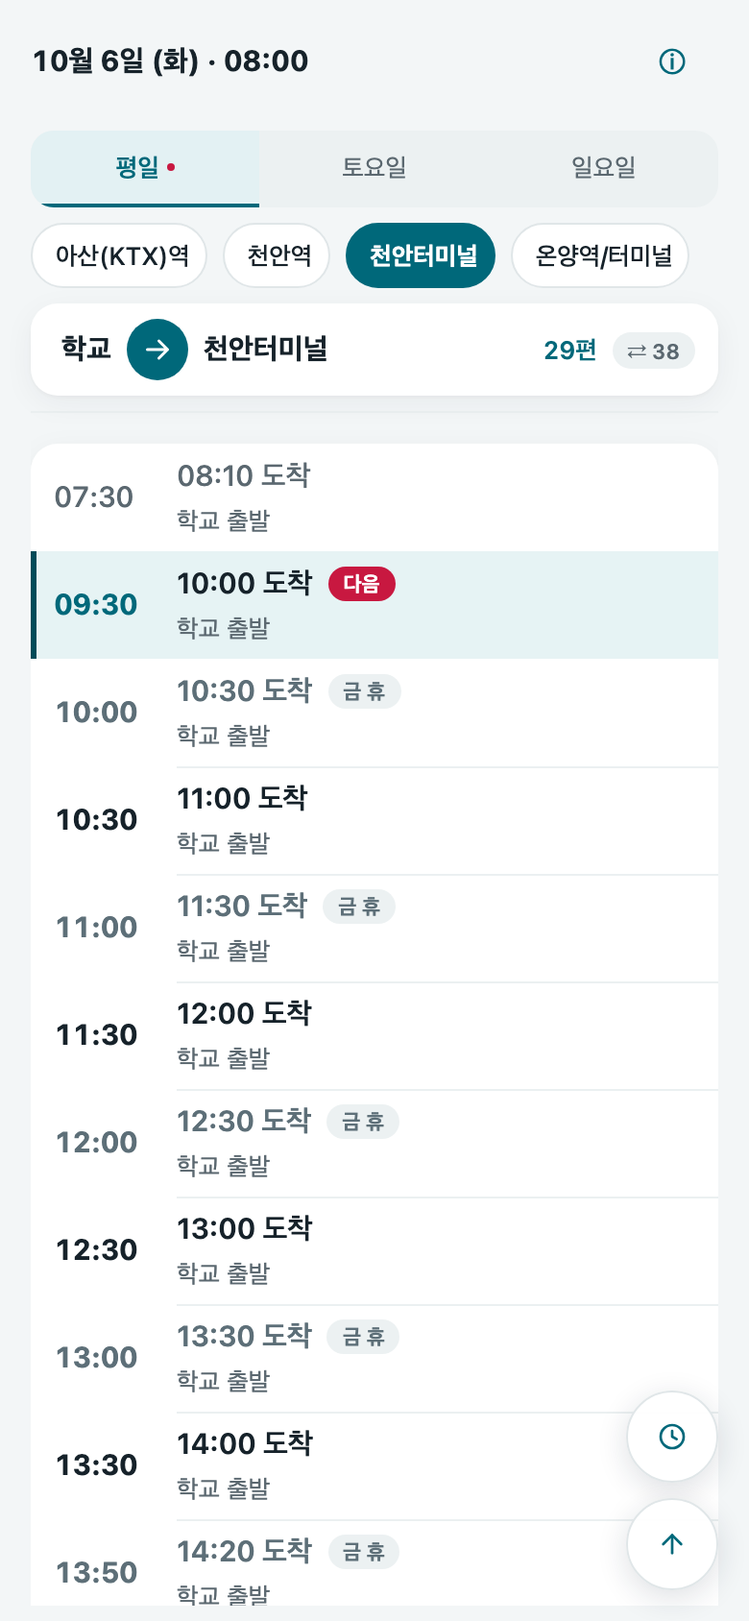
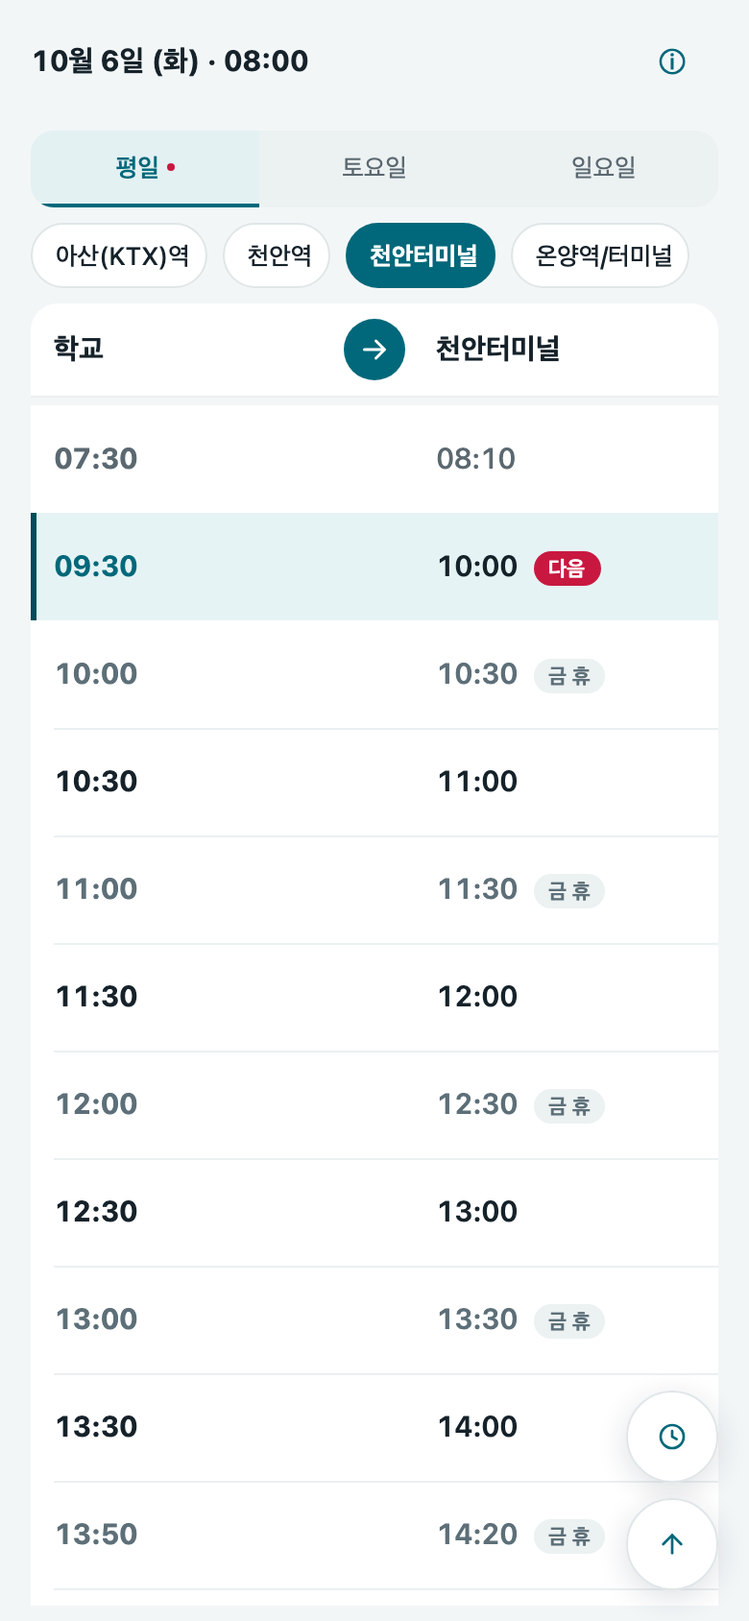
evidence: 표 형식 시간표 후 스모크 재실행 산출물

diff --git a/.session-notes/T7-a11y-report.md b/.session-notes/T7-a11y-report.md
@@ -1,13 +1,13 @@
 # T7·T11 감사 원출력 (a11y_smoke.mjs)
 
-- 일시: 2026-11-14T07:24:06.447Z
-- URL: http://127.0.0.1:55118/sunmoon-shuttle/?now=2026-10-05T14%3A40%3A00%2B09%3A00
+- 일시: 2026-11-14T07:31:20.472Z
+- URL: http://127.0.0.1:55639/sunmoon-shuttle/?now=2026-10-05T14%3A40%3A00%2B09%3A00
 - 뷰포트: 390×844 @2x (mobile, touch)
 - 스크린샷: .session-notes/T7-light.png · .session-notes/T7-dark.png · .session-notes/T7-focus-skip-link.png · .session-notes/T11-privacy.png
 
 ### ① 매니페스트 (Page.getAppManifest)
 
-- url: http://127.0.0.1:55118/sunmoon-shuttle/manifest.webmanifest
+- url: http://127.0.0.1:55639/sunmoon-shuttle/manifest.webmanifest
 - errors: []
 - name: 선문대 셔틀버스 시간표 · Sunmoon Shuttle Bus
 - short_name: 셔틀버스 Shuttle
@@ -25,7 +25,7 @@
 | ./icons/maskable-512.png | 512x512 | maskable | 200 | 512x512 | 4290B |
 
 
-### ③ light — 대비 실측(전체 35개 텍스트 노드)
+### ③ light — 대비 실측(전체 34개 텍스트 노드)
 
 | 요소 | 문구 | 전경 | 배경 | 크기 | 대비 | 기준 |
 |---|---|---|---|---|---|---|
@@ -40,35 +40,34 @@
 | span.shuttle-chip__label | 천안터미널 | rgb(22, 34, 42) | rgb(255, 255, 255) | 13px | 16.2:1 | ≥4.5 |
 | span.shuttle-chip__label | 온양역/터미널 | rgb(93, 111, 120) | rgb(255, 255, 255) | 13px | 5.24:1 | ≥4.5 |
 | span.shuttle-dirhead__place | 학교 | rgb(22, 34, 42) | rgb(255, 255, 255) | 15px bold | 16.2:1 | ≥4.5 |
-| span.shuttle-dirhead__place | 아산(KTX)역 | rgb(22, 34, 42) | rgb(255, 255, 255) | 15px bold | 16.2:1 | ≥4.5 |
-| span.shuttle-dirhead__num | 6편 | rgb(0, 104, 122) | rgb(255, 255, 255) | 13px | 6.44:1 | ≥4.5 |
-| span.shuttle-dirhead__swap | ⇄ 6 | rgb(91, 104, 112) | rgb(236, 241, 242) | 11px | 5.04:1 | ≥4.5 |
+| span.shuttle-dirhead__place.shuttle-dirhead__place--to | 아산(KTX)역 | rgb(22, 34, 42) | rgb(255, 255, 255) | 15px bold | 16.2:1 | ≥4.5 |
 | p.shuttle-strip__line | 일요일 시간표로 운행합니다 · 개천절대체휴일: 일요일  | rgb(27, 58, 107) | rgb(231, 238, 251) | 14px | 9.67:1 | ≥4.5 |
-| span.shuttle-departure__time | 09:00 | rgb(91, 104, 112) | rgb(255, 255, 255) | 15px | 5.74:1 | ≥4.5 |
-| span.shuttle-departure__route | 09:20 도착 | rgb(91, 104, 112) | rgb(255, 255, 255) | 15px | 5.74:1 | ≥4.5 |
-| span.shuttle-departure__dir | 학교 출발 · 약 20분 소요 | rgb(91, 104, 112) | rgb(255, 255, 255) | 13px | 5.74:1 | ≥4.5 |
-| span.shuttle-departure__time | 12:00 | rgb(91, 104, 112) | rgb(255, 255, 255) | 15px | 5.74:1 | ≥4.5 |
-| span.shuttle-departure__route | 12:20 도착 | rgb(91, 104, 112) | rgb(255, 255, 255) | 15px | 5.74:1 | ≥4.5 |
-| span.shuttle-departure__dir | 학교 출발 · 약 20분 소요 | rgb(91, 104, 112) | rgb(255, 255, 255) | 13px | 5.74:1 | ≥4.5 |
+| span.shuttle-departure__time | 09:00 | rgb(91, 104, 112) | rgb(255, 255, 255) | 15px bold | 5.74:1 | ≥4.5 |
+| span.shuttle-departure__mid | 약 20분 | rgb(91, 104, 112) | rgb(255, 255, 255) | 13px | 5.74:1 | ≥4.5 |
+| span.shuttle-departure__arrive | 09:20 | rgb(91, 104, 112) | rgb(255, 255, 255) | 15px | 5.74:1 | ≥4.5 |
+| span.shuttle-departure__time | 12:00 | rgb(91, 104, 112) | rgb(255, 255, 255) | 15px bold | 5.74:1 | ≥4.5 |
+| span.shuttle-departure__mid | 약 20분 | rgb(91, 104, 112) | rgb(255, 255, 255) | 13px | 5.74:1 | ≥4.5 |
+| span.shuttle-departure__arrive | 12:20 | rgb(91, 104, 112) | rgb(255, 255, 255) | 15px | 5.74:1 | ≥4.5 |
 | span.shuttle-departure__time | 16:10 | rgb(0, 104, 122) | rgb(230, 243, 244) | 15px bold | 5.67:1 | ≥4.5 |
-| span.shuttle-departure__route | 16:30 도착 | rgb(22, 34, 42) | rgb(230, 243, 244) | 15px | 14.26:1 | ≥4.5 |
-| span.shuttle-departure__dir | 학교 출발 · 약 20분 소요 | rgb(91, 104, 112) | rgb(230, 243, 244) | 13px | 5.05:1 | ≥4.5 |
+| span.shuttle-departure__mid | 약 20분 | rgb(91, 104, 112) | rgb(230, 243, 244) | 13px | 5.05:1 | ≥4.5 |
+| span.shuttle-departure__arrive | 16:30 | rgb(22, 34, 42) | rgb(230, 243, 244) | 15px | 14.26:1 | ≥4.5 |
+| span.shuttle-departure__next-badge | 다음 | rgb(255, 255, 255) | rgb(200, 24, 64) | 11px bold | 5.74:1 | ≥4.5 |
 | span.shuttle-departure__time | 18:20 | rgb(22, 34, 42) | rgb(255, 255, 255) | 15px bold | 16.2:1 | ≥4.5 |
-| span.shuttle-departure__route | 18:40 도착 | rgb(22, 34, 42) | rgb(255, 255, 255) | 15px | 16.2:1 | ≥4.5 |
-| span.shuttle-departure__dir | 학교 출발 · 약 20분 소요 | rgb(91, 104, 112) | rgb(255, 255, 255) | 13px | 5.74:1 | ≥4.5 |
+| span.shuttle-departure__mid | 약 20분 | rgb(91, 104, 112) | rgb(255, 255, 255) | 13px | 5.74:1 | ≥4.5 |
+| span.shuttle-departure__arrive | 18:40 | rgb(22, 34, 42) | rgb(255, 255, 255) | 15px | 16.2:1 | ≥4.5 |
 | span.shuttle-departure__time | 19:10 | rgb(22, 34, 42) | rgb(255, 255, 255) | 15px bold | 16.2:1 | ≥4.5 |
-| span.shuttle-departure__route | 19:30 도착 | rgb(22, 34, 42) | rgb(255, 255, 255) | 15px | 16.2:1 | ≥4.5 |
-| span.shuttle-departure__dir | 학교 출발 · 약 20분 소요 | rgb(91, 104, 112) | rgb(255, 255, 255) | 13px | 5.74:1 | ≥4.5 |
+| span.shuttle-departure__mid | 약 20분 | rgb(91, 104, 112) | rgb(255, 255, 255) | 13px | 5.74:1 | ≥4.5 |
+| span.shuttle-departure__arrive | 19:30 | rgb(22, 34, 42) | rgb(255, 255, 255) | 15px | 16.2:1 | ≥4.5 |
 | span.shuttle-departure__time | 20:00 | rgb(22, 34, 42) | rgb(255, 255, 255) | 15px bold | 16.2:1 | ≥4.5 |
-| span.shuttle-departure__route | 20:20 도착 | rgb(22, 34, 42) | rgb(255, 255, 255) | 15px | 16.2:1 | ≥4.5 |
-| span.shuttle-departure__dir | 학교 출발 · 약 20분 소요 | rgb(91, 104, 112) | rgb(255, 255, 255) | 13px | 5.74:1 | ≥4.5 |
+| span.shuttle-departure__mid | 약 20분 | rgb(91, 104, 112) | rgb(255, 255, 255) | 13px | 5.74:1 | ≥4.5 |
+| span.shuttle-departure__arrive | 20:20 | rgb(22, 34, 42) | rgb(255, 255, 255) | 15px | 16.2:1 | ≥4.5 |
 | p.shuttle-splash__title | 선문대 셔틀 | rgb(22, 34, 42) | rgb(243, 246, 247) | 28px bold (큰글씨) | 14.92:1 | ≥3 |
 | p.shuttle-splash__message | 시간표 불러오는 중 | rgb(91, 104, 112) | rgb(243, 246, 247) | 14px | 5.28:1 | ≥4.5 |
 
 미달: 0건
 
 
-#### light — 터치 타깃 실측(19개)
+#### light — 터치 타깃 실측(18개)
 
 | 요소 | 문구 | 폭 | 높이 | 최소(문서) |
 |---|---|---|---|---|
@@ -81,20 +80,19 @@
 | button.shuttle-chip | 천안역 | 56px | 44px | 48×44 |
 | button.shuttle-chip | 천안터미널 | 78px | 44px | 48×44 |
 | button.shuttle-chip.shuttle-chip--empty | 온양역/터미널 | 93px | 44px | 48×44 |
-| button.shuttle-dirhead | 학교아산(KTX)역6편⇄ 6 | 358px | 48px | 48×48 |
-| section.shuttle-tabpanel.shuttle-tabpanel--enter | 시간표09:0009:20 도착학교 출발 · 약 20 | 358px | 464px | 48×48 |
+| button.shuttle-dirhead__arrow |  | 48px | 48px | 48×48 |
+| section.shuttle-tabpanel.shuttle-tabpanel--enter | 시간표09:00약 20분09:20지난 편12:00약 | 358px | 464px | 48×48 |
 | button.shuttle-icon-button |  | 48px | 48px | 48×48 |
 | button.shuttle-icon-button.shuttle-sheet__close |  | 48px | 48px | 48×48 |
 | summary | 정차 시간 안내 | 334px | 48px | 48×48 |
 | summary | 시내버스 참고 | 334px | 48px | 48×48 |
 | a | 학교 안내 페이지 열기 | 112px | 48px | 48×48 |
 | a | 개인정보처리방침 | 90px | 48px | 48×48 |
-| button.shuttle-dirhead | 학교아산(KTX)역4편⇄ 4 | 358px | 48px | 48×48 |
-| section.shuttle-tabpanel.shuttle-tabpanel--enter | 시간표08:0008:20 도착학교 출발 · 약 20 | 358px | 352px | 48×48 |
+| section.shuttle-tabpanel.shuttle-tabpanel--enter | 시간표08:00약 20분08:2012:00약 20분 | 358px | 352px | 48×48 |
 
 규격 미달: 0건
 
-레이아웃: 요소 256개 · body bg=rgb(243, 246, 247) · body color=rgb(22, 34, 42) · scrollWidth=390 ≤ clientWidth=390
+레이아웃: 요소 254개 · body bg=rgb(243, 246, 247) · body color=rgb(22, 34, 42) · scrollWidth=390 ≤ clientWidth=390
 
 
 #### 키보드 포커스(실측)
@@ -105,7 +103,7 @@
 ### 설치 안내 삭제 + 본문 텍스트 노드 전수 목록(T31 · docs/07 §13)
 - 설치 안내 노드: false · 금지 문자열 실측(값·상태·라벨 구역): 0건
 - §9-4 예외 구역(상태 1줄): 합니다
-- 본문 텍스트 노드 33개 · 허용 구역 밖 0건
+- 본문 텍스트 노드 32개 · 허용 구역 밖 0건
 - 전수 목록(문자열·위치·크기): .session-notes/T31-본문텍스트노드.md
 
 | 요소 | 문자열 | 위치(x,y) | 크기(w×h) | 폰트(px) | 구분 |
@@ -120,32 +118,31 @@
 | span.shuttle-chip__label | 천안역 | 131,123 | 34×20 | 13 | 값·상태·라벨 |
 | span.shuttle-chip__label | 천안터미널 | 195,123 | 56×20 | 13 | 값·상태·라벨 |
 | span.shuttle-chip__label | 온양역/터미널 | 281,123 | 71×20 | 13 | 값·상태·라벨 |
-| span.shuttle-dirhead__place | 학교 | 32,170 | 26×23 | 15 | 값·상태·라벨 |
-| span.shuttle-dirhead__place | 아산(KTX)역 | 106,170 | 82×23 | 15 | 값·상태·라벨 |
-| span.shuttle-dirhead__num | 6편 | 298,172 | 20×20 | 13 | 값·상태·라벨 |
-| span.shuttle-dirhead__swap | ⇄ 6 | 326,173 | 36×20 | 11 | 값·상태·라벨 |
-| p.shuttle-strip__line | 일요일 시간표로 운행합니다 · 개천절대체휴일: 일요일 시간표로 운행 | 31,223 | 331×43 | 14 | §9-4 예외(상태 1줄) |
-| span.shuttle-departure__time | 09:00 | 28,301 | 52×20 | 15 | 값·상태·라벨 |
-| span.shuttle-departure__route | 09:20 도착 | 92,290 | 72×20 | 15 | 값·상태·라벨 |
-| span.shuttle-departure__dir | 학교 출발 · 약 20분 소요 | 92,314 | 270×17 | 13 | 값·상태·라벨 |
-| span.shuttle-departure__time | 12:00 | 28,357 | 52×20 | 15 | 값·상태·라벨 |
-| span.shuttle-departure__route | 12:20 도착 | 92,346 | 69×20 | 15 | 값·상태·라벨 |
-| span.shuttle-departure__dir | 학교 출발 · 약 20분 소요 | 92,370 | 270×17 | 13 | 값·상태·라벨 |
-| span.shuttle-departure__time | 16:10 | 28,413 | 52×20 | 15 | 값·상태·라벨 |
-| span.shuttle-departure__route | 16:30 도착 | 92,402 | 114×20 | 15 | 값·상태·라벨 |
-| span.shuttle-departure__dir | 학교 출발 · 약 20분 소요 | 92,426 | 270×17 | 13 | 값·상태·라벨 |
-| span.shuttle-departure__time | 18:20 | 28,469 | 52×20 | 15 | 값·상태·라벨 |
-| span.shuttle-departure__route | 18:40 도착 | 92,458 | 71×20 | 15 | 값·상태·라벨 |
-| span.shuttle-departure__dir | 학교 출발 · 약 20분 소요 | 92,482 | 270×17 | 13 | 값·상태·라벨 |
-| span.shuttle-departure__time | 19:10 | 28,525 | 52×20 | 15 | 값·상태·라벨 |
-| span.shuttle-departure__route | 19:30 도착 | 92,514 | 71×20 | 15 | 값·상태·라벨 |
-| span.shuttle-departure__dir | 학교 출발 · 약 20분 소요 | 92,538 | 270×17 | 13 | 값·상태·라벨 |
-| span.shuttle-departure__time | 20:00 | 28,581 | 52×20 | 15 | 값·상태·라벨 |
-| span.shuttle-departure__route | 20:20 도착 | 92,570 | 72×20 | 15 | 값·상태·라벨 |
-| span.shuttle-departure__dir | 학교 출발 · 약 20분 소요 | 92,594 | 270×17 | 13 | 값·상태·라벨 |
+| span.shuttle-dirhead__place | 학교 | 28,170 | 135×23 | 15 | 값·상태·라벨 |
+| span.shuttle-dirhead__place.shuttle-dirhead__place--to | 아산(KTX)역 | 227,170 | 135×23 | 15 | 값·상태·라벨 |
+| p.shuttle-strip__line | 일요일 시간표로 운행합니다 · 개천절대체휴일: 일요일 시간표로 운행 | 31,215 | 331×43 | 14 | §9-4 예외(상태 1줄) |
+| span.shuttle-departure__time | 09:00 | 28,281 | 44×20 | 15 | 값·상태·라벨 |
+| span.shuttle-departure__mid | 약 20분 | 174,280 | 42×20 | 13 | 값·상태·라벨 |
+| span.shuttle-departure__arrive | 09:20 | 227,281 | 41×20 | 15 | 값·상태·라벨 |
+| span.shuttle-departure__time | 12:00 | 28,337 | 44×20 | 15 | 값·상태·라벨 |
+| span.shuttle-departure__mid | 약 20분 | 174,336 | 42×20 | 13 | 값·상태·라벨 |
+| span.shuttle-departure__arrive | 12:20 | 227,337 | 41×20 | 15 | 값·상태·라벨 |
+| span.shuttle-departure__time | 16:10 | 28,393 | 44×20 | 15 | 값·상태·라벨 |
+| span.shuttle-departure__mid | 약 20분 | 174,392 | 42×20 | 13 | 값·상태·라벨 |
+| span.shuttle-departure__arrive | 16:30 | 227,392 | 43×20 | 15 | 값·상태·라벨 |
+| span.shuttle-departure__next-badge | 다음 | 278,394 | 35×19 | 11 | 값·상태·라벨 |
+| span.shuttle-departure__time | 18:20 | 28,449 | 44×20 | 15 | 값·상태·라벨 |
+| span.shuttle-departure__mid | 약 20분 | 174,448 | 42×20 | 13 | 값·상태·라벨 |
+| span.shuttle-departure__arrive | 18:40 | 227,449 | 43×20 | 15 | 값·상태·라벨 |
+| span.shuttle-departure__time | 19:10 | 28,505 | 44×20 | 15 | 값·상태·라벨 |
+| span.shuttle-departure__mid | 약 20분 | 174,504 | 42×20 | 13 | 값·상태·라벨 |
+| span.shuttle-departure__arrive | 19:30 | 227,505 | 43×20 | 15 | 값·상태·라벨 |
+| span.shuttle-departure__time | 20:00 | 28,561 | 44×20 | 15 | 값·상태·라벨 |
+| span.shuttle-departure__mid | 약 20분 | 174,560 | 42×20 | 13 | 값·상태·라벨 |
+| span.shuttle-departure__arrive | 20:20 | 227,561 | 43×20 | 15 | 값·상태·라벨 |
 
 
-### ④ dark — 대비 실측(전체 35개 텍스트 노드)
+### ④ dark — 대비 실측(전체 34개 텍스트 노드)
 
 | 요소 | 문구 | 전경 | 배경 | 크기 | 대비 | 기준 |
 |---|---|---|---|---|---|---|
@@ -160,35 +157,34 @@
 | span.shuttle-chip__label | 천안터미널 | rgb(238, 242, 246) | rgb(27, 33, 41) | 13px | 14.4:1 | ≥4.5 |
 | span.shuttle-chip__label | 온양역/터미널 | rgb(154, 166, 178) | rgb(27, 33, 41) | 13px | 6.54:1 | ≥4.5 |
 | span.shuttle-dirhead__place | 학교 | rgb(238, 242, 246) | rgb(27, 33, 41) | 15px bold | 14.4:1 | ≥4.5 |
-| span.shuttle-dirhead__place | 아산(KTX)역 | rgb(238, 242, 246) | rgb(27, 33, 41) | 15px bold | 14.4:1 | ≥4.5 |
-| span.shuttle-dirhead__num | 6편 | rgb(95, 195, 207) | rgb(27, 33, 41) | 13px | 7.86:1 | ≥4.5 |
-| span.shuttle-dirhead__swap | ⇄ 6 | rgb(185, 195, 206) | rgb(34, 42, 51) | 11px | 8.13:1 | ≥4.5 |
+| span.shuttle-dirhead__place.shuttle-dirhead__place--to | 아산(KTX)역 | rgb(238, 242, 246) | rgb(27, 33, 41) | 15px bold | 14.4:1 | ≥4.5 |
 | p.shuttle-strip__line | 일요일 시간표로 운행합니다 · 개천절대체휴일: 일요일  | rgb(189, 211, 245) | rgb(27, 39, 64) | 14px | 9.78:1 | ≥4.5 |
-| span.shuttle-departure__time | 09:00 | rgb(185, 195, 206) | rgb(27, 33, 41) | 15px | 9.07:1 | ≥4.5 |
-| span.shuttle-departure__route | 09:20 도착 | rgb(185, 195, 206) | rgb(27, 33, 41) | 15px | 9.07:1 | ≥4.5 |
-| span.shuttle-departure__dir | 학교 출발 · 약 20분 소요 | rgb(185, 195, 206) | rgb(27, 33, 41) | 13px | 9.07:1 | ≥4.5 |
-| span.shuttle-departure__time | 12:00 | rgb(185, 195, 206) | rgb(27, 33, 41) | 15px | 9.07:1 | ≥4.5 |
-| span.shuttle-departure__route | 12:20 도착 | rgb(185, 195, 206) | rgb(27, 33, 41) | 15px | 9.07:1 | ≥4.5 |
-| span.shuttle-departure__dir | 학교 출발 · 약 20분 소요 | rgb(185, 195, 206) | rgb(27, 33, 41) | 13px | 9.07:1 | ≥4.5 |
+| span.shuttle-departure__time | 09:00 | rgb(185, 195, 206) | rgb(27, 33, 41) | 15px bold | 9.07:1 | ≥4.5 |
+| span.shuttle-departure__mid | 약 20분 | rgb(185, 195, 206) | rgb(27, 33, 41) | 13px | 9.07:1 | ≥4.5 |
+| span.shuttle-departure__arrive | 09:20 | rgb(185, 195, 206) | rgb(27, 33, 41) | 15px | 9.07:1 | ≥4.5 |
+| span.shuttle-departure__time | 12:00 | rgb(185, 195, 206) | rgb(27, 33, 41) | 15px bold | 9.07:1 | ≥4.5 |
+| span.shuttle-departure__mid | 약 20분 | rgb(185, 195, 206) | rgb(27, 33, 41) | 13px | 9.07:1 | ≥4.5 |
+| span.shuttle-departure__arrive | 12:20 | rgb(185, 195, 206) | rgb(27, 33, 41) | 15px | 9.07:1 | ≥4.5 |
 | span.shuttle-departure__time | 16:10 | rgb(95, 195, 207) | rgb(29, 50, 54) | 15px bold | 6.53:1 | ≥4.5 |
-| span.shuttle-departure__route | 16:30 도착 | rgb(238, 242, 246) | rgb(29, 50, 54) | 15px | 11.95:1 | ≥4.5 |
-| span.shuttle-departure__dir | 학교 출발 · 약 20분 소요 | rgb(185, 195, 206) | rgb(29, 50, 54) | 13px | 7.53:1 | ≥4.5 |
+| span.shuttle-departure__mid | 약 20분 | rgb(185, 195, 206) | rgb(29, 50, 54) | 13px | 7.53:1 | ≥4.5 |
+| span.shuttle-departure__arrive | 16:30 | rgb(238, 242, 246) | rgb(29, 50, 54) | 15px | 11.95:1 | ≥4.5 |
+| span.shuttle-departure__next-badge | 다음 | rgb(16, 22, 29) | rgb(242, 122, 144) | 11px bold | 6.9:1 | ≥4.5 |
 | span.shuttle-departure__time | 18:20 | rgb(238, 242, 246) | rgb(27, 33, 41) | 15px bold | 14.4:1 | ≥4.5 |
-| span.shuttle-departure__route | 18:40 도착 | rgb(238, 242, 246) | rgb(27, 33, 41) | 15px | 14.4:1 | ≥4.5 |
-| span.shuttle-departure__dir | 학교 출발 · 약 20분 소요 | rgb(185, 195, 206) | rgb(27, 33, 41) | 13px | 9.07:1 | ≥4.5 |
+| span.shuttle-departure__mid | 약 20분 | rgb(185, 195, 206) | rgb(27, 33, 41) | 13px | 9.07:1 | ≥4.5 |
+| span.shuttle-departure__arrive | 18:40 | rgb(238, 242, 246) | rgb(27, 33, 41) | 15px | 14.4:1 | ≥4.5 |
 | span.shuttle-departure__time | 19:10 | rgb(238, 242, 246) | rgb(27, 33, 41) | 15px bold | 14.4:1 | ≥4.5 |
-| span.shuttle-departure__route | 19:30 도착 | rgb(238, 242, 246) | rgb(27, 33, 41) | 15px | 14.4:1 | ≥4.5 |
-| span.shuttle-departure__dir | 학교 출발 · 약 20분 소요 | rgb(185, 195, 206) | rgb(27, 33, 41) | 13px | 9.07:1 | ≥4.5 |
+| span.shuttle-departure__mid | 약 20분 | rgb(185, 195, 206) | rgb(27, 33, 41) | 13px | 9.07:1 | ≥4.5 |
+| span.shuttle-departure__arrive | 19:30 | rgb(238, 242, 246) | rgb(27, 33, 41) | 15px | 14.4:1 | ≥4.5 |
 | span.shuttle-departure__time | 20:00 | rgb(238, 242, 246) | rgb(27, 33, 41) | 15px bold | 14.4:1 | ≥4.5 |
-| span.shuttle-departure__route | 20:20 도착 | rgb(238, 242, 246) | rgb(27, 33, 41) | 15px | 14.4:1 | ≥4.5 |
-| span.shuttle-departure__dir | 학교 출발 · 약 20분 소요 | rgb(185, 195, 206) | rgb(27, 33, 41) | 13px | 9.07:1 | ≥4.5 |
+| span.shuttle-departure__mid | 약 20분 | rgb(185, 195, 206) | rgb(27, 33, 41) | 13px | 9.07:1 | ≥4.5 |
+| span.shuttle-departure__arrive | 20:20 | rgb(238, 242, 246) | rgb(27, 33, 41) | 15px | 14.4:1 | ≥4.5 |
 | p.shuttle-splash__title | 선문대 셔틀 | rgb(238, 242, 246) | rgb(18, 22, 27) | 28px bold (큰글씨) | 16.14:1 | ≥3 |
 | p.shuttle-splash__message | 시간표 불러오는 중 | rgb(185, 195, 206) | rgb(18, 22, 27) | 14px | 10.17:1 | ≥4.5 |
 
 미달: 0건
 
 
-#### dark — 터치 타깃 실측(19개)
+#### dark — 터치 타깃 실측(18개)
 
 | 요소 | 문구 | 폭 | 높이 | 최소(문서) |
 |---|---|---|---|---|
@@ -201,20 +197,19 @@
 | button.shuttle-chip | 천안역 | 56px | 44px | 48×44 |
 | button.shuttle-chip | 천안터미널 | 78px | 44px | 48×44 |
 | button.shuttle-chip.shuttle-chip--empty | 온양역/터미널 | 93px | 44px | 48×44 |
-| button.shuttle-dirhead | 학교아산(KTX)역6편⇄ 6 | 358px | 48px | 48×48 |
-| section.shuttle-tabpanel.shuttle-tabpanel--enter | 시간표09:0009:20 도착학교 출발 · 약 20 | 358px | 464px | 48×48 |
+| button.shuttle-dirhead__arrow |  | 48px | 48px | 48×48 |
+| section.shuttle-tabpanel.shuttle-tabpanel--enter | 시간표09:00약 20분09:20지난 편12:00약 | 358px | 464px | 48×48 |
 | button.shuttle-icon-button |  | 48px | 48px | 48×48 |
 | button.shuttle-icon-button.shuttle-sheet__close |  | 48px | 48px | 48×48 |
 | summary | 정차 시간 안내 | 334px | 48px | 48×48 |
 | summary | 시내버스 참고 | 334px | 48px | 48×48 |
 | a | 학교 안내 페이지 열기 | 112px | 48px | 48×48 |
 | a | 개인정보처리방침 | 90px | 48px | 48×48 |
-| button.shuttle-dirhead | 학교아산(KTX)역4편⇄ 4 | 358px | 48px | 48×48 |
-| section.shuttle-tabpanel.shuttle-tabpanel--enter | 시간표08:0008:20 도착학교 출발 · 약 20 | 358px | 352px | 48×48 |
+| section.shuttle-tabpanel.shuttle-tabpanel--enter | 시간표08:00약 20분08:2012:00약 20분 | 358px | 352px | 48×48 |
 
 규격 미달: 0건
 
-레이아웃: 요소 256개 · body bg=rgb(18, 22, 27) · body color=rgb(238, 242, 246) · scrollWidth=390 ≤ clientWidth=390
+레이아웃: 요소 254개 · body bg=rgb(18, 22, 27) · body color=rgb(238, 242, 246) · scrollWidth=390 ≤ clientWidth=390
 
 
 #### 안전영역 토큰 주입 실측
@@ -228,10 +223,10 @@
 
 
 ### ⑧ 개인정보처리방침(privacy.html · T11)
-- URL: http://127.0.0.1:55118/sunmoon-shuttle/privacy.html (HTTP 200, 6238B)
+- URL: http://127.0.0.1:55639/sunmoon-shuttle/privacy.html (HTTP 200, 6238B)
 - h1: 개인정보처리방침 · 필수 문구 누락: 0건
 - body bg=rgb(243, 246, 247) · color=rgb(22, 34, 42) · 가로 스크롤 없음(scrollWidth=390)
-- 푸터 링크: {"href":"./privacy.html","text":"개인정보처리방침","resolved":"http://127.0.0.1:55118/sunmoon-shuttle/privacy.html"}
+- 푸터 링크: {"href":"./privacy.html","text":"개인정보처리방침","resolved":"http://127.0.0.1:55639/sunmoon-shuttle/privacy.html"}
 - 스크린샷: /Users/leeheesun/Documents/GitHub/sunmoon-shuttle/.session-notes/T11-privacy.png
 
 | 요소 | 문구 | 전경 | 배경 | 크기 | 대비 | 기준 |

diff --git a/.session-notes/T31-본문텍스트노드.md b/.session-notes/T31-본문텍스트노드.md
@@ -1,9 +1,9 @@
 # T31 본문 텍스트 노드 전수 목록 (docs/07 §13-3 · AC-U13-2)
 
-- 일시: 2026-11-14T07:24:03.729Z
-- URL: http://127.0.0.1:55118/sunmoon-shuttle/?now=2026-10-05T14%3A40%3A00%2B09%3A00
+- 일시: 2026-11-14T07:31:17.810Z
+- URL: http://127.0.0.1:55639/sunmoon-shuttle/?now=2026-10-05T14%3A40%3A00%2B09%3A00
 - 뷰포트: 390×844 @2x (mobile, touch) · 라이트 모드 · 미설치 상태(설치 안내 없음)
-- 노드 수: 33개 · 금지 문자열 실측: 0건
+- 노드 수: 32개 · 금지 문자열 실측: 0건
 - §9-4 예외 구역(상단 상태 1줄·오류/오프라인 배너)에서 나온 금지 문자열: 합니다 (문서가 남긴 고정 문구 — v1·render·offline 스모크가 그대로 검사한다)
 - 허용 구역 밖(설명문 의심): 0건
 
@@ -19,29 +19,28 @@
 | 8 | span.shuttle-chip__label | 천안역 | 131,123 | 34×20 | 13 | 값·상태·라벨 |
 | 9 | span.shuttle-chip__label | 천안터미널 | 195,123 | 56×20 | 13 | 값·상태·라벨 |
 | 10 | span.shuttle-chip__label | 온양역/터미널 | 281,123 | 71×20 | 13 | 값·상태·라벨 |
-| 11 | span.shuttle-dirhead__place | 학교 | 32,170 | 26×23 | 15 | 값·상태·라벨 |
-| 12 | span.shuttle-dirhead__place | 아산(KTX)역 | 106,170 | 82×23 | 15 | 값·상태·라벨 |
-| 13 | span.shuttle-dirhead__num | 6편 | 298,172 | 20×20 | 13 | 값·상태·라벨 |
-| 14 | span.shuttle-dirhead__swap | ⇄ 6 | 326,173 | 36×20 | 11 | 값·상태·라벨 |
-| 15 | p.shuttle-strip__line | 일요일 시간표로 운행합니다 · 개천절대체휴일: 일요일 시간표로 운행 | 31,223 | 331×43 | 14 | §9-4 예외(상태 1줄) |
-| 16 | span.shuttle-departure__time | 09:00 | 28,301 | 52×20 | 15 | 값·상태·라벨 |
-| 17 | span.shuttle-departure__route | 09:20 도착 | 92,290 | 72×20 | 15 | 값·상태·라벨 |
-| 18 | span.shuttle-departure__dir | 학교 출발 · 약 20분 소요 | 92,314 | 270×17 | 13 | 값·상태·라벨 |
-| 19 | span.shuttle-departure__time | 12:00 | 28,357 | 52×20 | 15 | 값·상태·라벨 |
-| 20 | span.shuttle-departure__route | 12:20 도착 | 92,346 | 69×20 | 15 | 값·상태·라벨 |
-| 21 | span.shuttle-departure__dir | 학교 출발 · 약 20분 소요 | 92,370 | 270×17 | 13 | 값·상태·라벨 |
-| 22 | span.shuttle-departure__time | 16:10 | 28,413 | 52×20 | 15 | 값·상태·라벨 |
-| 23 | span.shuttle-departure__route | 16:30 도착 | 92,402 | 114×20 | 15 | 값·상태·라벨 |
-| 24 | span.shuttle-departure__dir | 학교 출발 · 약 20분 소요 | 92,426 | 270×17 | 13 | 값·상태·라벨 |
-| 25 | span.shuttle-departure__time | 18:20 | 28,469 | 52×20 | 15 | 값·상태·라벨 |
-| 26 | span.shuttle-departure__route | 18:40 도착 | 92,458 | 71×20 | 15 | 값·상태·라벨 |
-| 27 | span.shuttle-departure__dir | 학교 출발 · 약 20분 소요 | 92,482 | 270×17 | 13 | 값·상태·라벨 |
-| 28 | span.shuttle-departure__time | 19:10 | 28,525 | 52×20 | 15 | 값·상태·라벨 |
-| 29 | span.shuttle-departure__route | 19:30 도착 | 92,514 | 71×20 | 15 | 값·상태·라벨 |
-| 30 | span.shuttle-departure__dir | 학교 출발 · 약 20분 소요 | 92,538 | 270×17 | 13 | 값·상태·라벨 |
-| 31 | span.shuttle-departure__time | 20:00 | 28,581 | 52×20 | 15 | 값·상태·라벨 |
-| 32 | span.shuttle-departure__route | 20:20 도착 | 92,570 | 72×20 | 15 | 값·상태·라벨 |
-| 33 | span.shuttle-departure__dir | 학교 출발 · 약 20분 소요 | 92,594 | 270×17 | 13 | 값·상태·라벨 |
+| 11 | span.shuttle-dirhead__place | 학교 | 28,170 | 135×23 | 15 | 값·상태·라벨 |
+| 12 | span.shuttle-dirhead__place.shuttle-dirhead__place--to | 아산(KTX)역 | 227,170 | 135×23 | 15 | 값·상태·라벨 |
+| 13 | p.shuttle-strip__line | 일요일 시간표로 운행합니다 · 개천절대체휴일: 일요일 시간표로 운행 | 31,215 | 331×43 | 14 | §9-4 예외(상태 1줄) |
+| 14 | span.shuttle-departure__time | 09:00 | 28,281 | 44×20 | 15 | 값·상태·라벨 |
+| 15 | span.shuttle-departure__mid | 약 20분 | 174,280 | 42×20 | 13 | 값·상태·라벨 |
+| 16 | span.shuttle-departure__arrive | 09:20 | 227,281 | 41×20 | 15 | 값·상태·라벨 |
+| 17 | span.shuttle-departure__time | 12:00 | 28,337 | 44×20 | 15 | 값·상태·라벨 |
+| 18 | span.shuttle-departure__mid | 약 20분 | 174,336 | 42×20 | 13 | 값·상태·라벨 |
+| 19 | span.shuttle-departure__arrive | 12:20 | 227,337 | 41×20 | 15 | 값·상태·라벨 |
+| 20 | span.shuttle-departure__time | 16:10 | 28,393 | 44×20 | 15 | 값·상태·라벨 |
+| 21 | span.shuttle-departure__mid | 약 20분 | 174,392 | 42×20 | 13 | 값·상태·라벨 |
+| 22 | span.shuttle-departure__arrive | 16:30 | 227,392 | 43×20 | 15 | 값·상태·라벨 |
+| 23 | span.shuttle-departure__next-badge | 다음 | 278,394 | 35×19 | 11 | 값·상태·라벨 |
+| 24 | span.shuttle-departure__time | 18:20 | 28,449 | 44×20 | 15 | 값·상태·라벨 |
+| 25 | span.shuttle-departure__mid | 약 20분 | 174,448 | 42×20 | 13 | 값·상태·라벨 |
+| 26 | span.shuttle-departure__arrive | 18:40 | 227,449 | 43×20 | 15 | 값·상태·라벨 |
+| 27 | span.shuttle-departure__time | 19:10 | 28,505 | 44×20 | 15 | 값·상태·라벨 |
+| 28 | span.shuttle-departure__mid | 약 20분 | 174,504 | 42×20 | 13 | 값·상태·라벨 |
+| 29 | span.shuttle-departure__arrive | 19:30 | 227,505 | 43×20 | 15 | 값·상태·라벨 |
+| 30 | span.shuttle-departure__time | 20:00 | 28,561 | 44×20 | 15 | 값·상태·라벨 |
+| 31 | span.shuttle-departure__mid | 약 20분 | 174,560 | 42×20 | 13 | 값·상태·라벨 |
+| 32 | span.shuttle-departure__arrive | 20:20 | 227,561 | 43×20 | 15 | 값·상태·라벨 |
 
 ## 구분 기준 (§13-1 — 본문 텍스트는 다음 5종만)
 ① 시각 ② 노선·도착지 ③ 편수 ④ 조건 토큰 ⑤ 컨트롤 라벨(아이콘 라벨)
